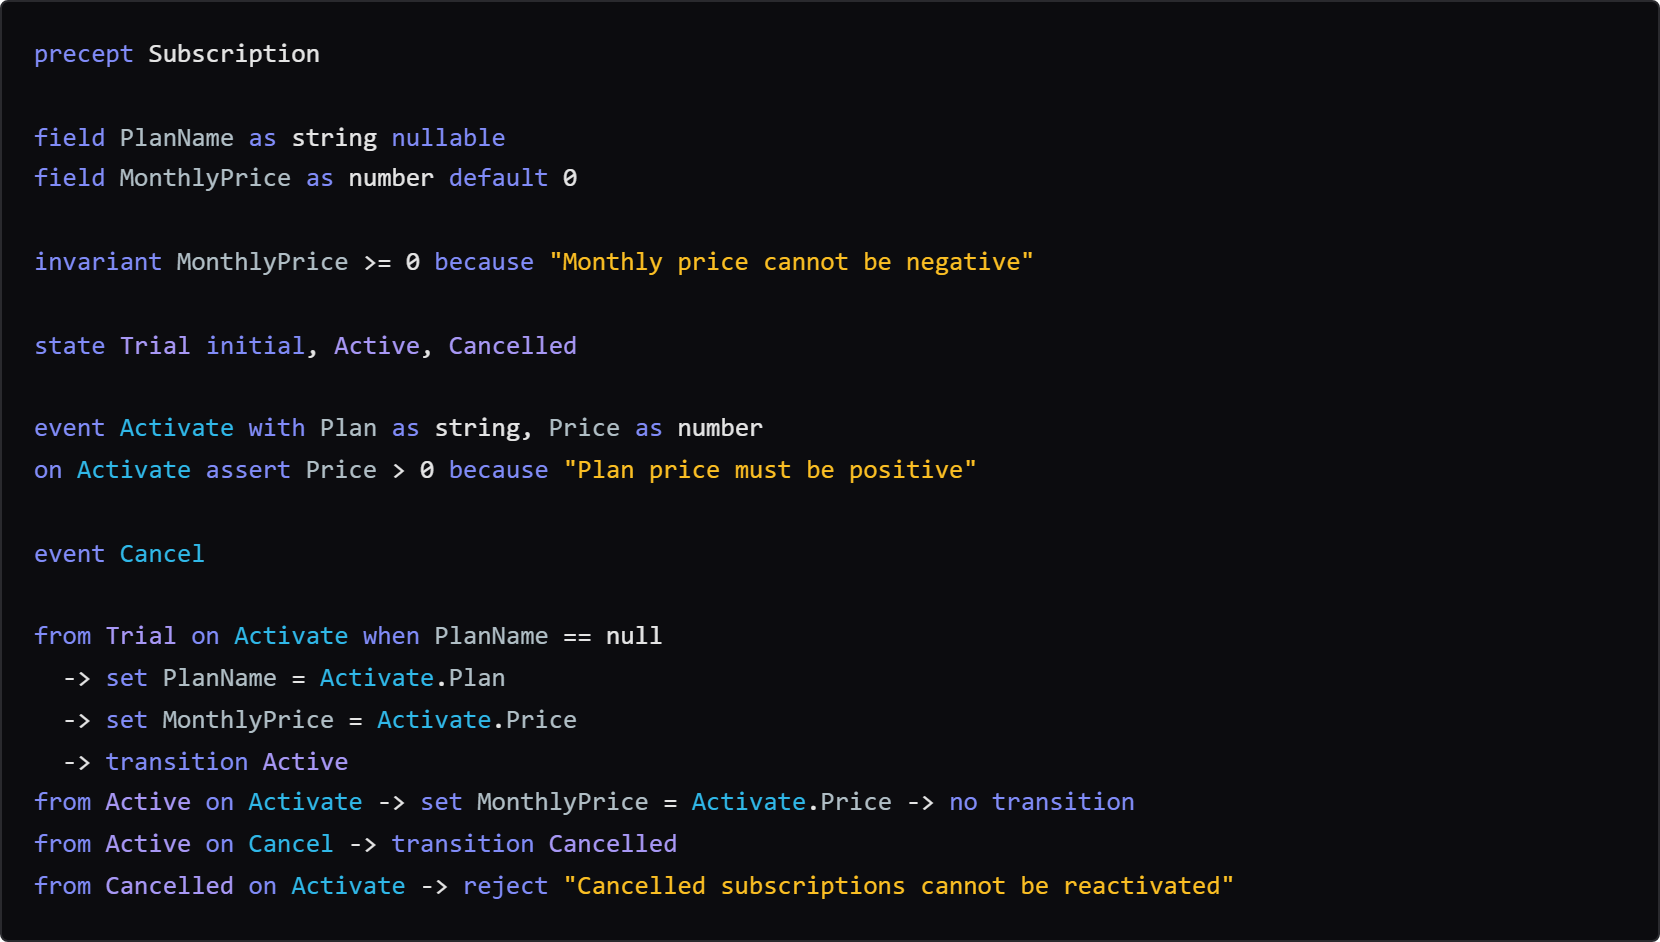
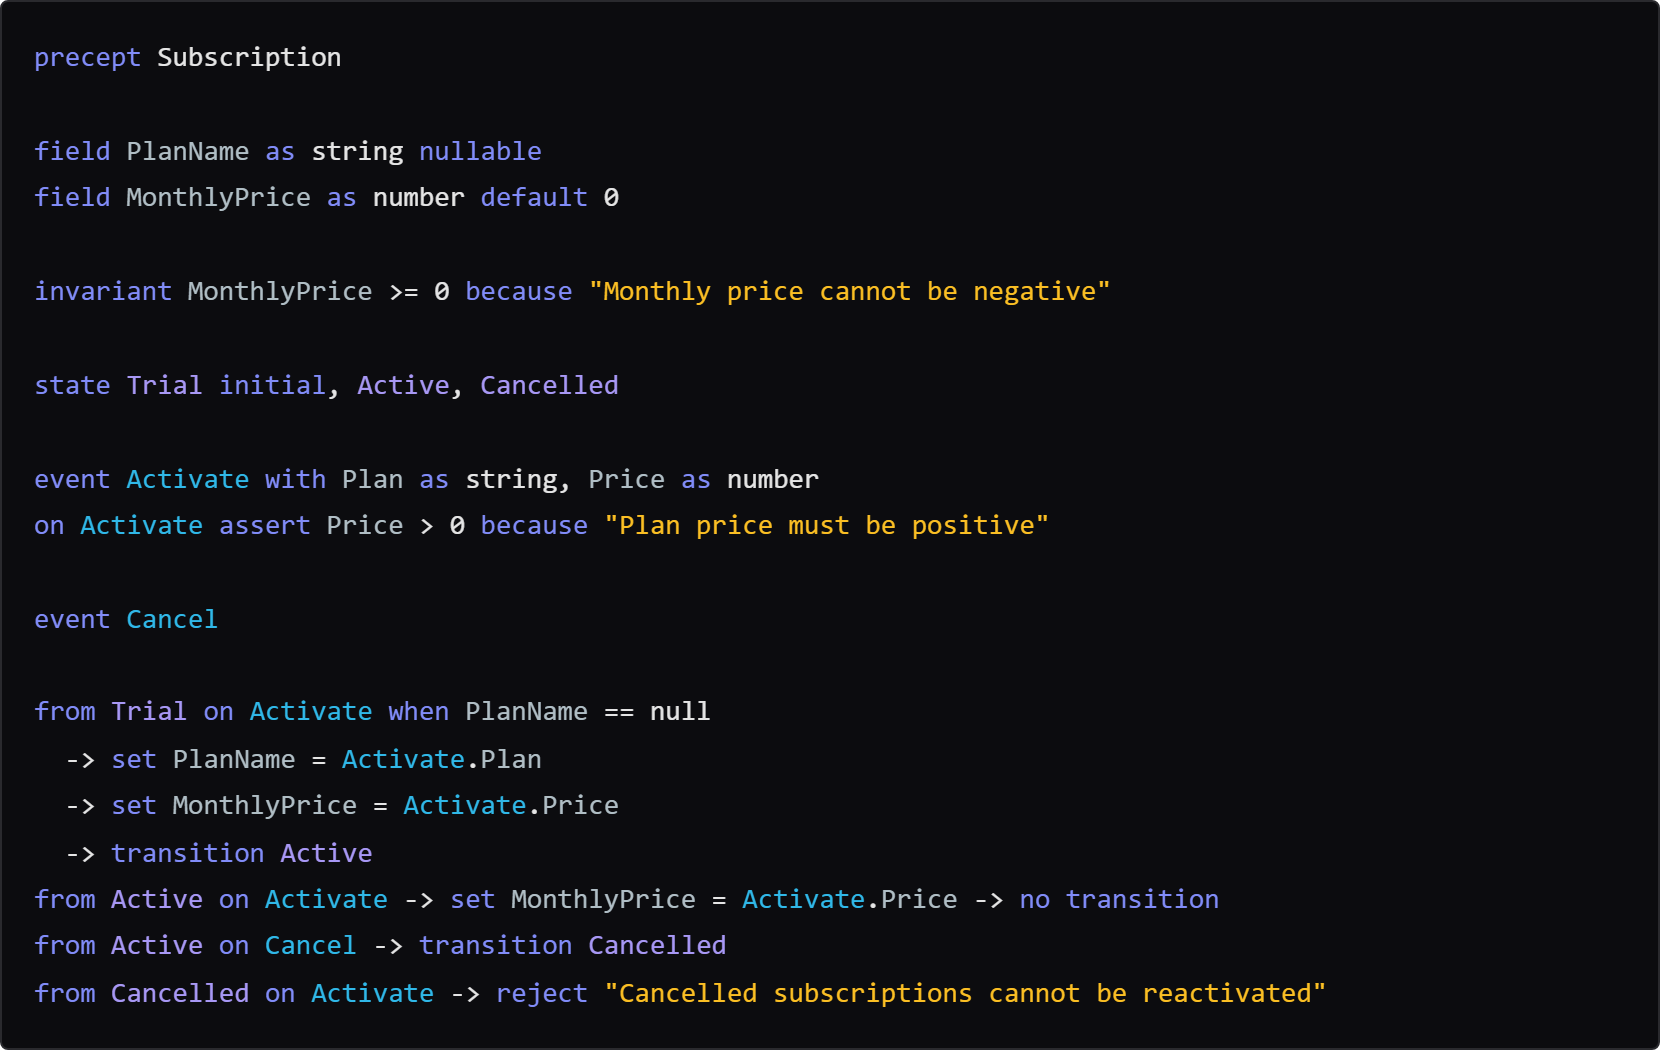
chore(brand): bump hero DSL font-size from 13px to 14px
Increase the source render font-size in readme-hero-dsl.html from
13px to 14px for improved legibility at GitHub's display scale.
Regenerated readme-hero-dsl.png (1660x1050 @ 2x retina) and updated
the capture script comment to reflect the new size.

diff --git a/design/brand/readme-hero-dsl.html b/design/brand/readme-hero-dsl.html
@@ -46,7 +46,7 @@
       border: 1px solid var(--border);
       border-radius: 4px;
       font-family: var(--mono);
-      font-size: 13px;
+      font-size: 14px;
       line-height: 1.6;
       white-space: pre;
       overflow-x: auto;
